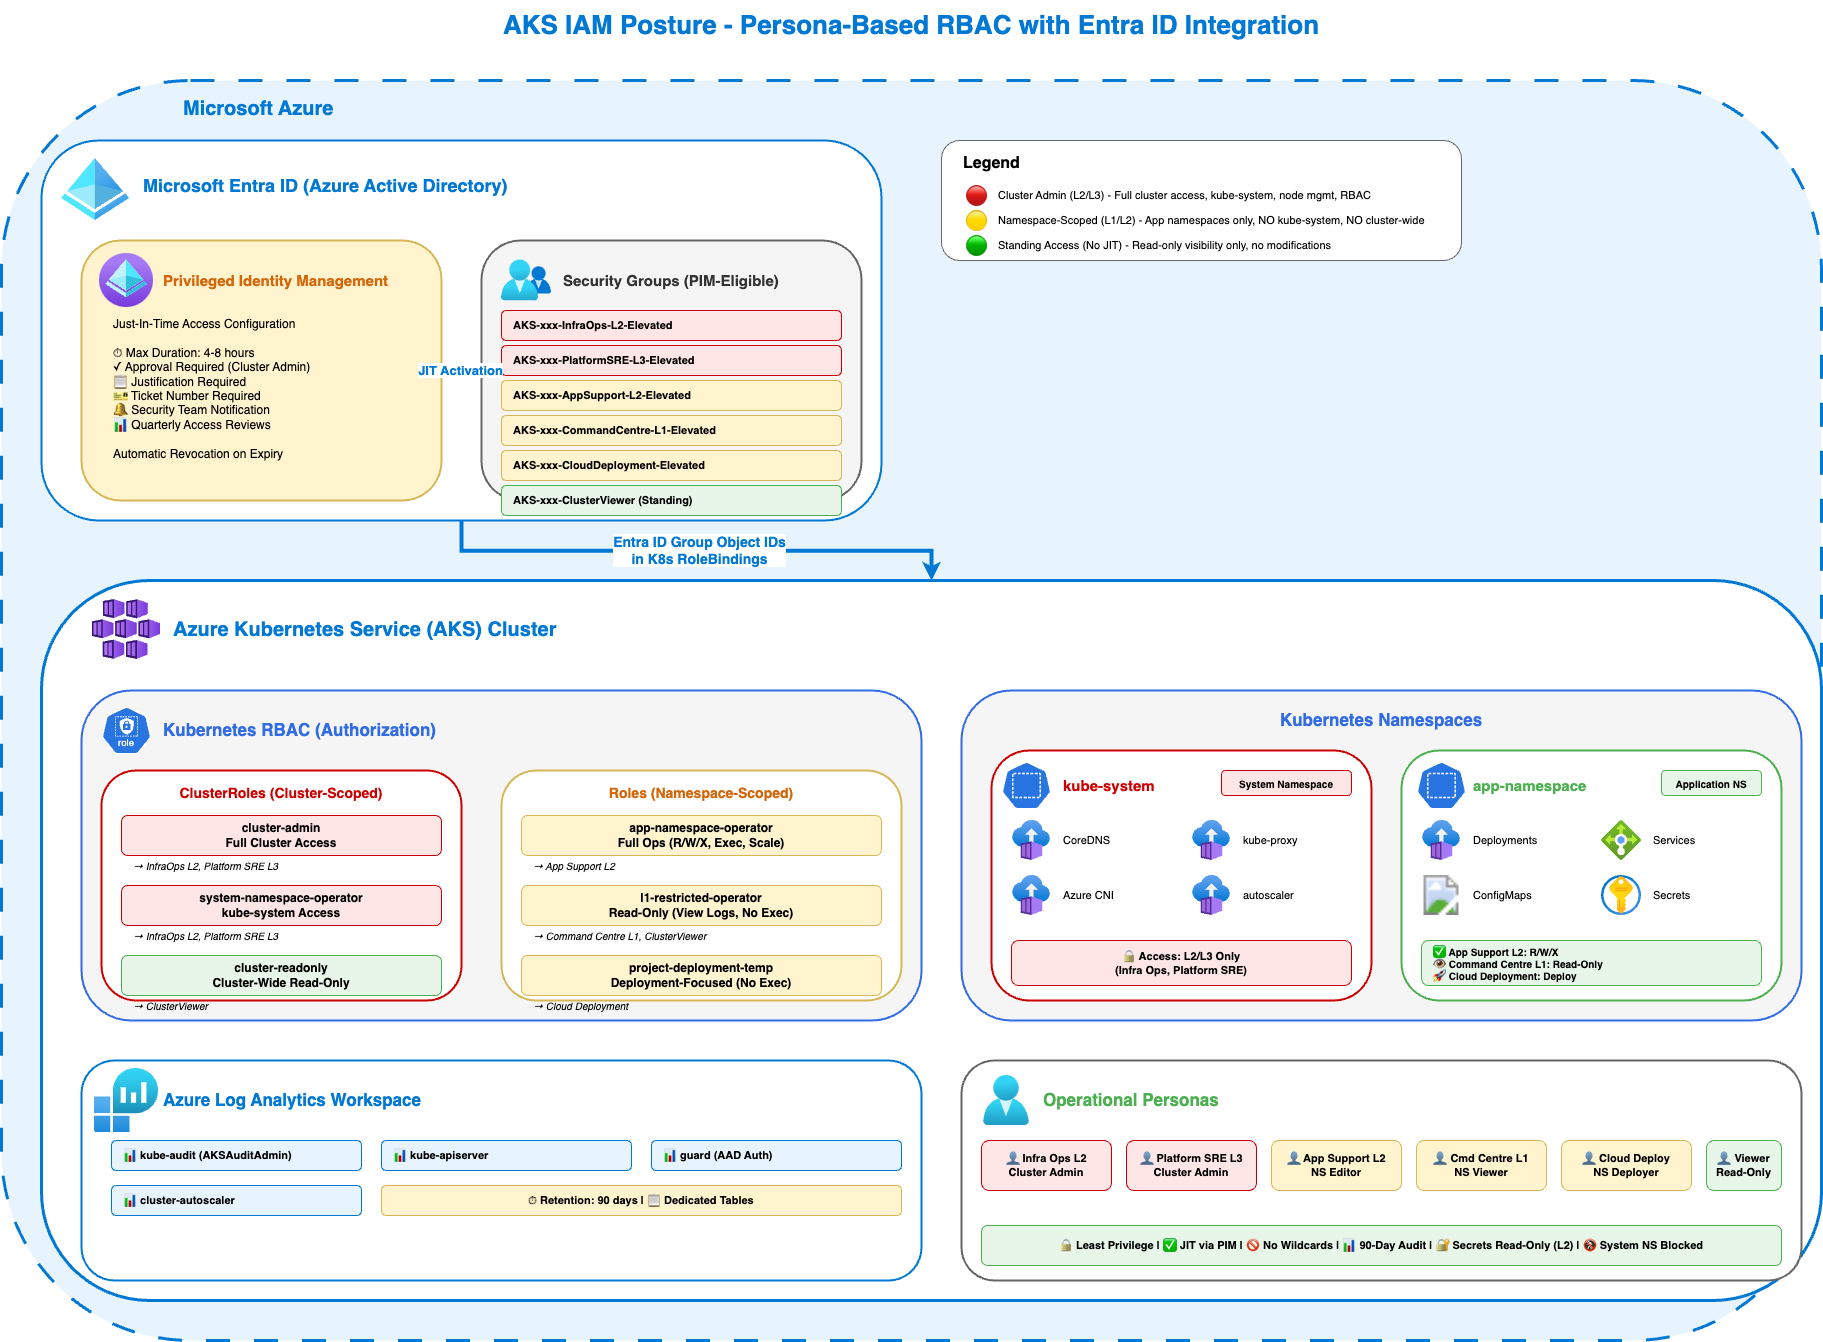
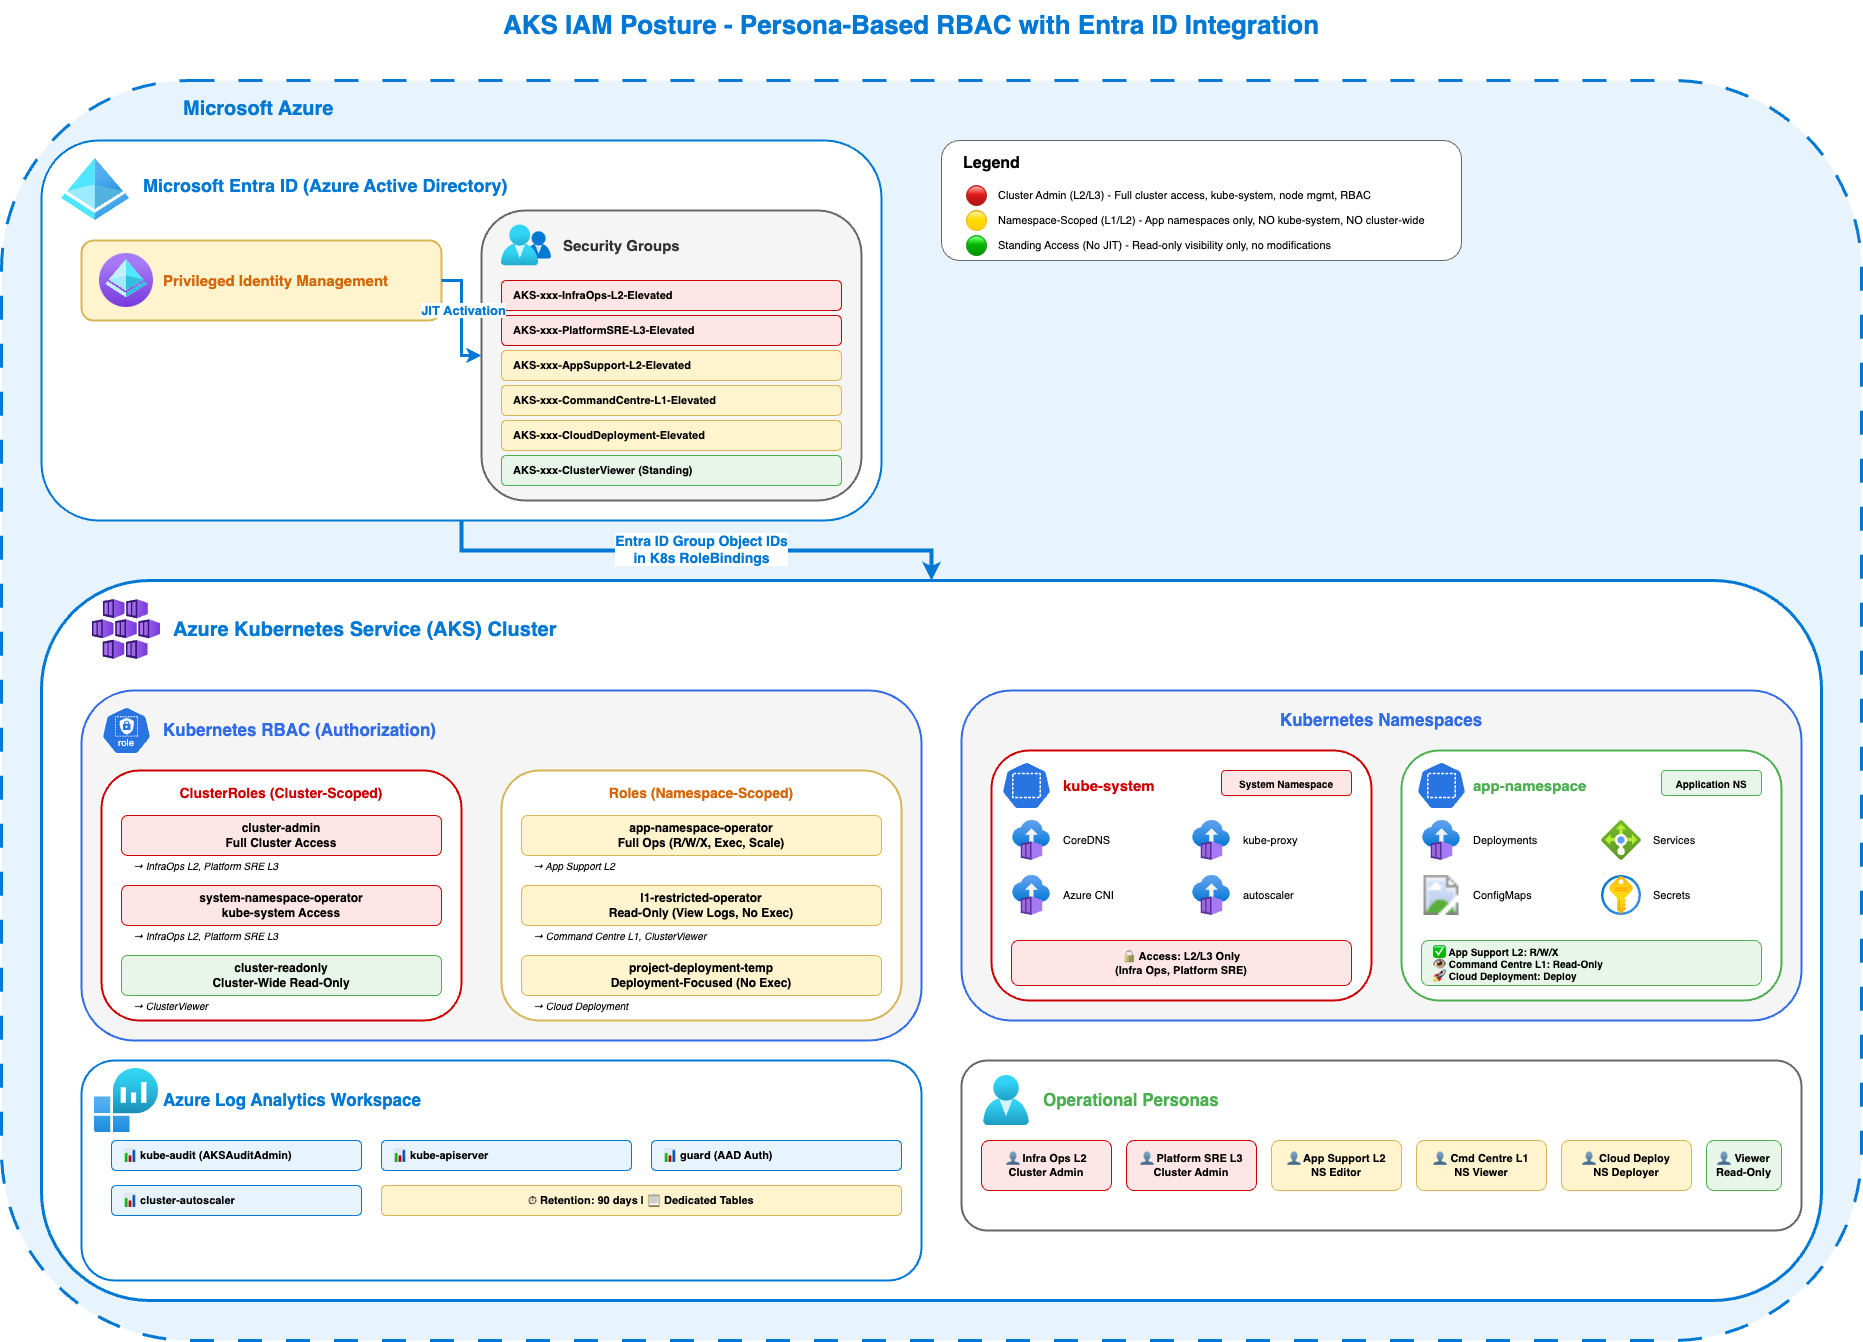
update arch and add group creation steps

diff --git a/kubernetes/aks-iam-rbac/README.md b/kubernetes/aks-iam-rbac/README.md
@@ -121,7 +121,24 @@ kubectl apply -f rbac/namespace/namespace-roles.yaml -n <APP_NAMESPACE>
 kubectl apply -f rbac/namespace/namespace-rolebindings.yaml -n <APP_NAMESPACE>
 ```
 
-### 4. Validate
+### 4. Create Demo Accounts
+
+Create demo Entra ID users and groups for each persona using the setup script:
+
+```bash
+./scripts/setup-demo-accounts.sh --domain <your-tenant.onmicrosoft.com> --cluster <CLUSTER_NAME>
+```
+
+This creates:
+- Entra ID groups (e.g., `AKS-<ClusterName>-InfraOps-L2-Elevated`)
+- Demo users for each persona (e.g., `demo-infraops@yourtenant.onmicrosoft.com`)
+- Group memberships mapping each user to their corresponding group
+
+> **Note:** Requires Azure CLI logged in with Entra ID admin permissions (ability to create groups and users).
+
+The script outputs a `.env` file (`demo-accounts-<CLUSTER_NAME>.env`) with the created user UPNs and group IDs, which is used by the validation script in the next step.
+
+### 5. Validate
 
 #### Validate Infrastructure and Configuration
 
@@ -141,14 +158,6 @@ This validates:
 #### Validate Persona Permissions
 
 ```bash
-# First, create a config file with demo/test user accounts
-cp docs/group-config-template.env demo-accounts-<CLUSTER_NAME>.env
-
-# Update with actual user UPNs and group IDs:
-#   INFRA_OPS_L2_USER="demo-infraops@yourtenant.onmicrosoft.com"
-#   INFRA_OPS_L2_GROUP_ID="0a09b16f-..."
-#   etc.
-
 # Run persona validation
 ./scripts/validate-persona-permissions.sh demo-accounts-<CLUSTER_NAME>.env
 ```
